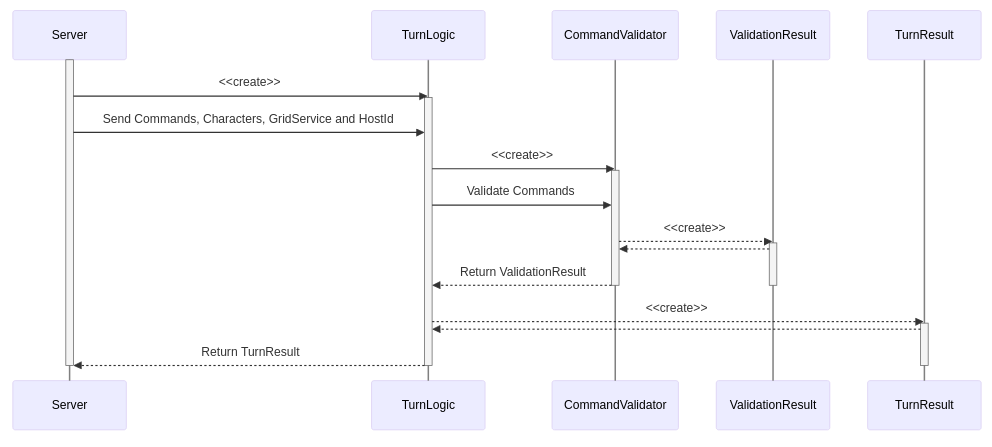
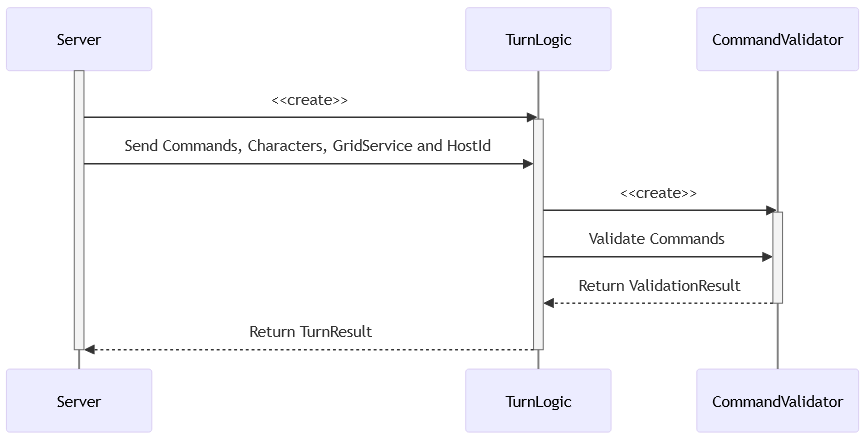
[#269] Slides dania + some fixes (#271)
* Danias slides

* Fixed presentation

* Fixed slides, again

---------

diff --git a/presentation/presentation.md b/presentation/presentation.md
@@ -31,22 +31,10 @@ A PvP multiplayer browser game.
 
 ---
 
-# Live Demo
-
-<!--
-    Live Demo ähnlich zum Games Day, einer hat einen Laptop offen
-    und ist auf dem Server vorbereitet. Um den lobby Browser zu zeigen
-    wir öffnen eine Lobby und spielen ein wenig.
--->
-
-<!-- _footer: "B-Team: Marc Matija"-->
-
----
-
-# Agenda (WIP)
-- Projektorganisation
-- Generelles Spiel
-- Technische Umsetzung
+# Agenda
+- Projektorganisation + Technologien
+- Spezifikationen + Technische Umsetzung
+- Design
 - Qualität
 - Doku
 - (Zukunft)
@@ -84,11 +72,21 @@ Z. Zukunft <code>Wer noch was braucht</code>
 
 ---
 
-# Introduction
+# Live Demo
+
+<!--
+    Live Demo ähnlich zum Games Day, einer hat einen Laptop offen
+    und ist auf dem Server vorbereitet. Um den lobby Browser zu zeigen
+    wir öffnen eine Lobby und spielen ein wenig.
+-->
+
+<!-- _footer: "B-Team: Marc Matija"-->
 
 ---
 
 # Projektorganisation
+
+<!-- _footer: "B-Team: Jacinto Schwarzwälder"-->
 
 ---
 
@@ -98,13 +96,18 @@ Z. Zukunft <code>Wer noch was braucht</code>
 - Sprints gingen 2 Wochen
 - Meetings wöchentlich 1x online (DC), 1x in Person
 
----
+<!-- _footer: "B-Team: Jacinto Schwarzwälder"-->
 
+---
+<!--
 # Clockify
 
 ![w:900](./assets/img/jacinto/Clockify.png)
 
+<!-- _footer: "B-Team: Jacinto Schwarzwälder"-->
+
 ---
+-->
 
 # Github
 
@@ -112,16 +115,22 @@ Z. Zukunft <code>Wer noch was braucht</code>
 - Mit Github Pages wurde die Doku gehostet
 - Mit Github Projects haben wir unser Task Management gemacht
 
+<!-- _footer: "B-Team: Jacinto Schwarzwälder"-->
+
 ---
 
 # Kanban
 
 ![w:900](./assets/img/jacinto/kanban.png)
 
+<!-- _footer: "B-Team: Jacinto Schwarzwälder"-->
+
 ---
 
 # Guidelines
 ![w:900](./assets/img/jacinto/guidelines.png)
+
+<!-- _footer: "B-Team: Jacinto Schwarzwälder"-->
 
 ---
 
@@ -129,54 +138,8 @@ Z. Zukunft <code>Wer noch was braucht</code>
 
 ![w:900](./assets/img/jacinto/prototype.png)
 
----
 
-# Scrum
-
----
-
-# Spiel
-
----
-
-<!-- _footer: "B-Team: Albano Vukelaj "-->
-
-# Main Menu
-
-<style scoped>
-  img.center {
-    float: center;
-    margin-left : 230px;
-    
-  }
-</style>
-<img src="assets/img/MainMenu/MainMenu_.png" alt="Main Menu" class="center" width ="700" />
-
---- 
-
-<!-- _footer: "B-Team: Albano Vukelaj"-->
-
-# Main Menu
-
-<style scoped>
-  img.right {
-    float: right;
-    margin-left: 20px; 
-    margin-top: 0px;
-    max-width: 60%; 
-  }
-</style>
-<img src="assets/img/MainMenu/MainMenu_CreateLobby.png" alt="Main Menu Create Lobby" class="right" />
-
-### Funktionen
-- Lobby-Suche
-- Datenaktualisierung
-- Lobby-Erstellung
-
-### Vorteile des Hauptmenüs
-- Benutzerfreundlichkeit
-- Flexibilität
-- Effizienz
+<!-- _footer: "B-Team: Jacinto Schwarzwälder"-->
 
 ---
 
@@ -243,7 +206,123 @@ Z. Zukunft <code>Wer noch was braucht</code>
 
 ---
 
-# Spiel an sich
+# Design
+
+---
+
+# Screens
+<br/>
+<br/>
+<br/>
+<br/>
+<br/>
+<br/>
+<br/>
+<br/>
+<br/>
+
+![w:500 bg](assets/img/screens/SplashScreen.webp)
+![w:500 bg](assets/img/screens/Lobbyscreen5.webp)
+![w:500 bg](assets/img/screens/Gamescreen.webp)
+
+
+<!-- _footer: "B-Team: Dania Anwar"-->
+
+---
+
+# Figma
+<!-- _footer: "B-Team: Dania Anwar"-->
+<br/>
+<br/>
+<br/>
+<br/>
+<br/>
+<br/>
+<br/>
+<br/>
+<br/>
+<br/>
+
+![w:400 bg](assets/img/figma/splashscreen.webp)
+![w:400 bg](assets/img/figma/mainmenu.webp)
+![w:400 bg](assets/img/figma/lobbyDialog.webp)
+
+<!-- _footer: "B-Team: Dania Anwar"-->
+
+---
+
+# Figma
+<br/>
+<br/>
+<br/>
+<br/>
+<br/>
+<br/>
+<br/>
+<br/>
+<br/>
+
+
+![w:600 bg](assets/img/figma/gamescreen.webp)
+![w:500 bg](assets/img/figma/turnoutcome.webp)
+
+<!-- _footer: "B-Team: Dania Anwar"-->
+
+---
+
+<br/><br/><br/><br/><br/><br/>
+# Design - Karte
+TiledMap: Isometrisches Tileset
+Erstellt mit Tiled
+
+![bg](assets/img/TiledScreenshot.png)
+
+<!-- _footer: "B-Team: Dania Anwar"-->
+
+---
+
+# Spezifikationen + Technische Umsetzung
+
+---
+
+<!-- _footer: "B-Team: Albano Vukelaj "-->
+
+# Main Menu
+
+<style scoped>
+  img.center {
+    float: center;
+    margin-left : 230px;
+    
+  }
+</style>
+<img src="assets/img/MainMenu/MainMenu_.png" alt="Main Menu" class="center" width ="700" />
+
+--- 
+
+<!-- _footer: "B-Team: Albano Vukelaj"-->
+
+# Main Menu
+
+<style scoped>
+  img.right {
+    float: right;
+    margin-left: 20px; 
+    margin-top: 0px;
+    max-width: 60%; 
+  }
+</style>
+<img src="assets/img/MainMenu/MainMenu_CreateLobby.png" alt="Main Menu Create Lobby" class="right" />
+
+### Funktionen
+- Lobby-Suche
+- Datenaktualisierung
+- Lobby-Erstellung
+
+### Vorteile des Hauptmenüs
+- Benutzerfreundlichkeit
+- Flexibilität
+- Effizienz
 
 ---
 
@@ -251,15 +330,15 @@ Z. Zukunft <code>Wer noch was braucht</code>
 
 # Charakter-Balancing
 
- Balancieren von **Leben, Angriff und Bewegung**.
+ Balancieren von **Leben, Angriff und Bewegung**
 
-### Prozess-Übersicht:
+## Unser Prozess:
 1. Richtlininien erstellt
 2. Richtlinien befolgt
-3. 15 Charaktere vorgeschlagen,**2 pro Typ**.  
-4. 6 endgültige Charaktere ausgewählt.   
-5. Mathematische Balance durch ein Balancing-Dreieck  
-6. Charaktere getestet und feinjustiert.
+    15 Charaktere vorgeschlagen, **2 pro Typ** 
+4. 6 endgültige Charaktere ausgewählt  
+5. Balancing durch ein Balancing-Dreieck  
+6. Charaktere getestet und feinjustiert
 
 ---
 
@@ -267,8 +346,8 @@ Z. Zukunft <code>Wer noch was braucht</code>
 
 Visualisierung des **Health-Attack-Movement-Dreiecks**.
 
-- **Alle Charaktere** im Dreieck eingezeichnet.  
-- Werte so angepasst, dass jeder ein **ähnliches Gesamtvolumen** hat.  
+- **Alle Charaktere** im Dreieck eingezeichnet
+- Werte so angepasst, dass jeder ein **ähnliches Gesamtvolumen** hat 
 
 > **Theorie ≠ Praxis!** Anpassungen waren notwendig, um das Balancing im echten Spiel zu verbessern.
 
@@ -491,11 +570,15 @@ Subpattern Mappings: '+' -> "plus"
 
 # Game Interaction
 
+<!-- _footer: "B-Team: Jacinto Schwarzwälder"-->
+
 ---
 
 # Coordinate Systems
 
 ![w:900](./assets/img/jacinto/CoordinateMaps.png)
+
+<!-- _footer: "B-Team: Jacinto Schwarzwälder"-->
 
 ---
 
@@ -503,11 +586,15 @@ Subpattern Mappings: '+' -> "plus"
 
 ![w:900](./assets/img/jacinto/gridToWorld.png)
 
+<!-- _footer: "B-Team: Jacinto Schwarzwälder"-->
+
 ---
 
 # World to Grid
 
 ![w:900](./assets/img/jacinto/worldToGrid.png)
+
+<!-- _footer: "B-Team: Jacinto Schwarzwälder"-->
 
 ---
 
@@ -523,17 +610,15 @@ Subpattern Mappings: '+' -> "plus"
 <!--Ggf. Gif von Bounces oder so-->
 <!--Ggf. Architekturmodell oder so-->
 
+<!-- _footer: "B-Team: Jacinto Schwarzwälder"-->
+
 ---
 
 # Sequenzdiagram
 
 ![w:900](./assets/img/jacinto/sequence_diagram.png)
 
----
-
-# Klassendiagramm
-
-![h:500](./assets/img/jacinto/turn_logic_classes.png)
+<!-- _footer: "B-Team: Jacinto Schwarzwälder"-->
 
 ---
 

diff --git a/documentation/Writerside/topics/Turn-Logic.md b/documentation/Writerside/topics/Turn-Logic.md
@@ -93,8 +93,6 @@ sequenceDiagram
     participant Server
     participant TurnLogic
     participant CommandValidator
-    participant ValidationResult
-    participant TurnResult
         
     activate Server    
     Server ->>TurnLogic: <<create>>
@@ -105,19 +103,11 @@ sequenceDiagram
     activate CommandValidator
     TurnLogic->>CommandValidator: Validate Commands
     
-    CommandValidator-->>ValidationResult: <<create>>
-    activate ValidationResult
-    ValidationResult-->>CommandValidator: 
     CommandValidator-->>TurnLogic: Return ValidationResult
     deactivate CommandValidator
-    deactivate ValidationResult
 
-    TurnLogic-->>TurnResult: <<create>>
-    activate TurnResult
-    TurnResult-->>TurnLogic: 
     TurnLogic-->>Server: Return TurnResult
     deactivate TurnLogic
-    deactivate TurnResult
     deactivate Server
 ```
 
